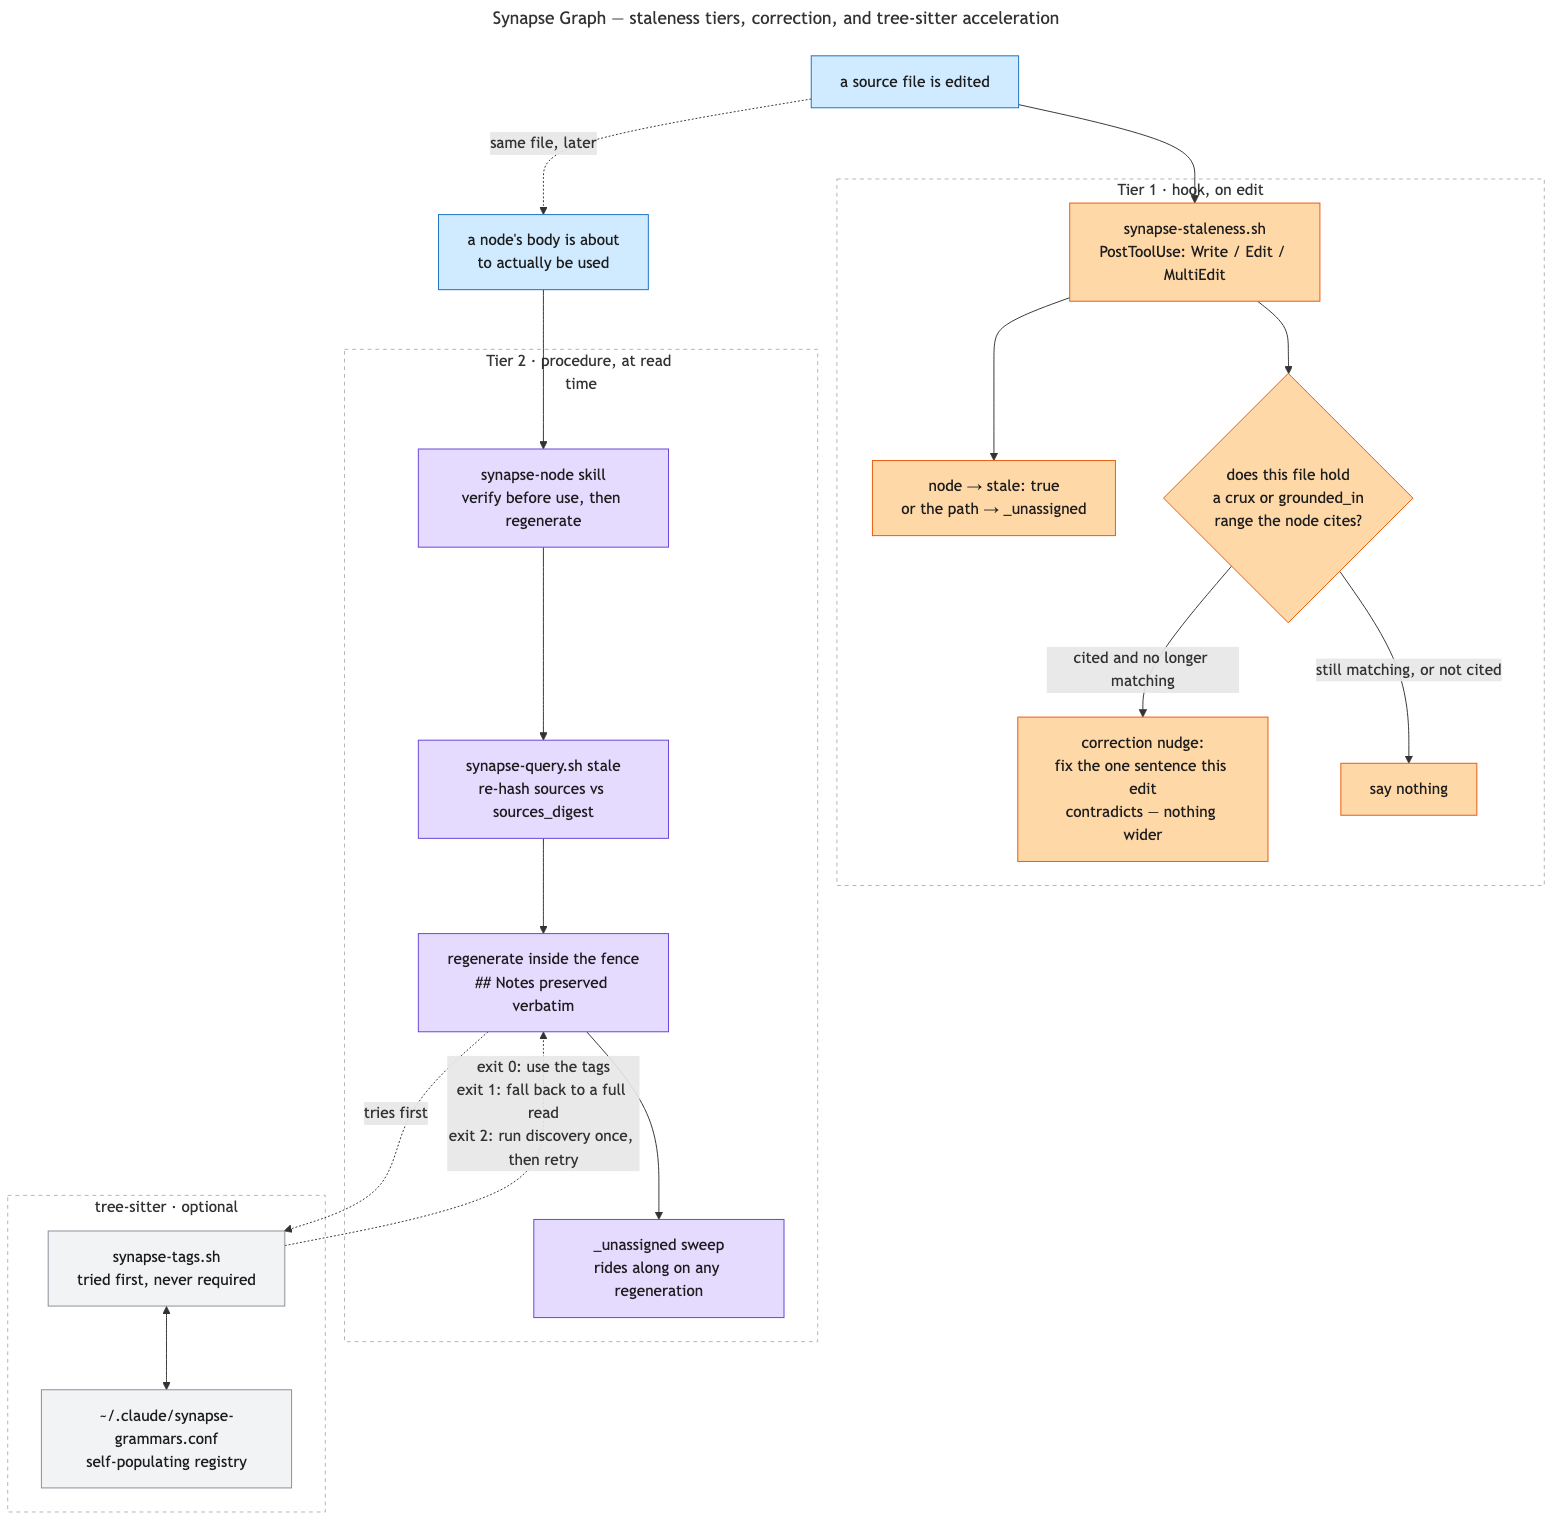
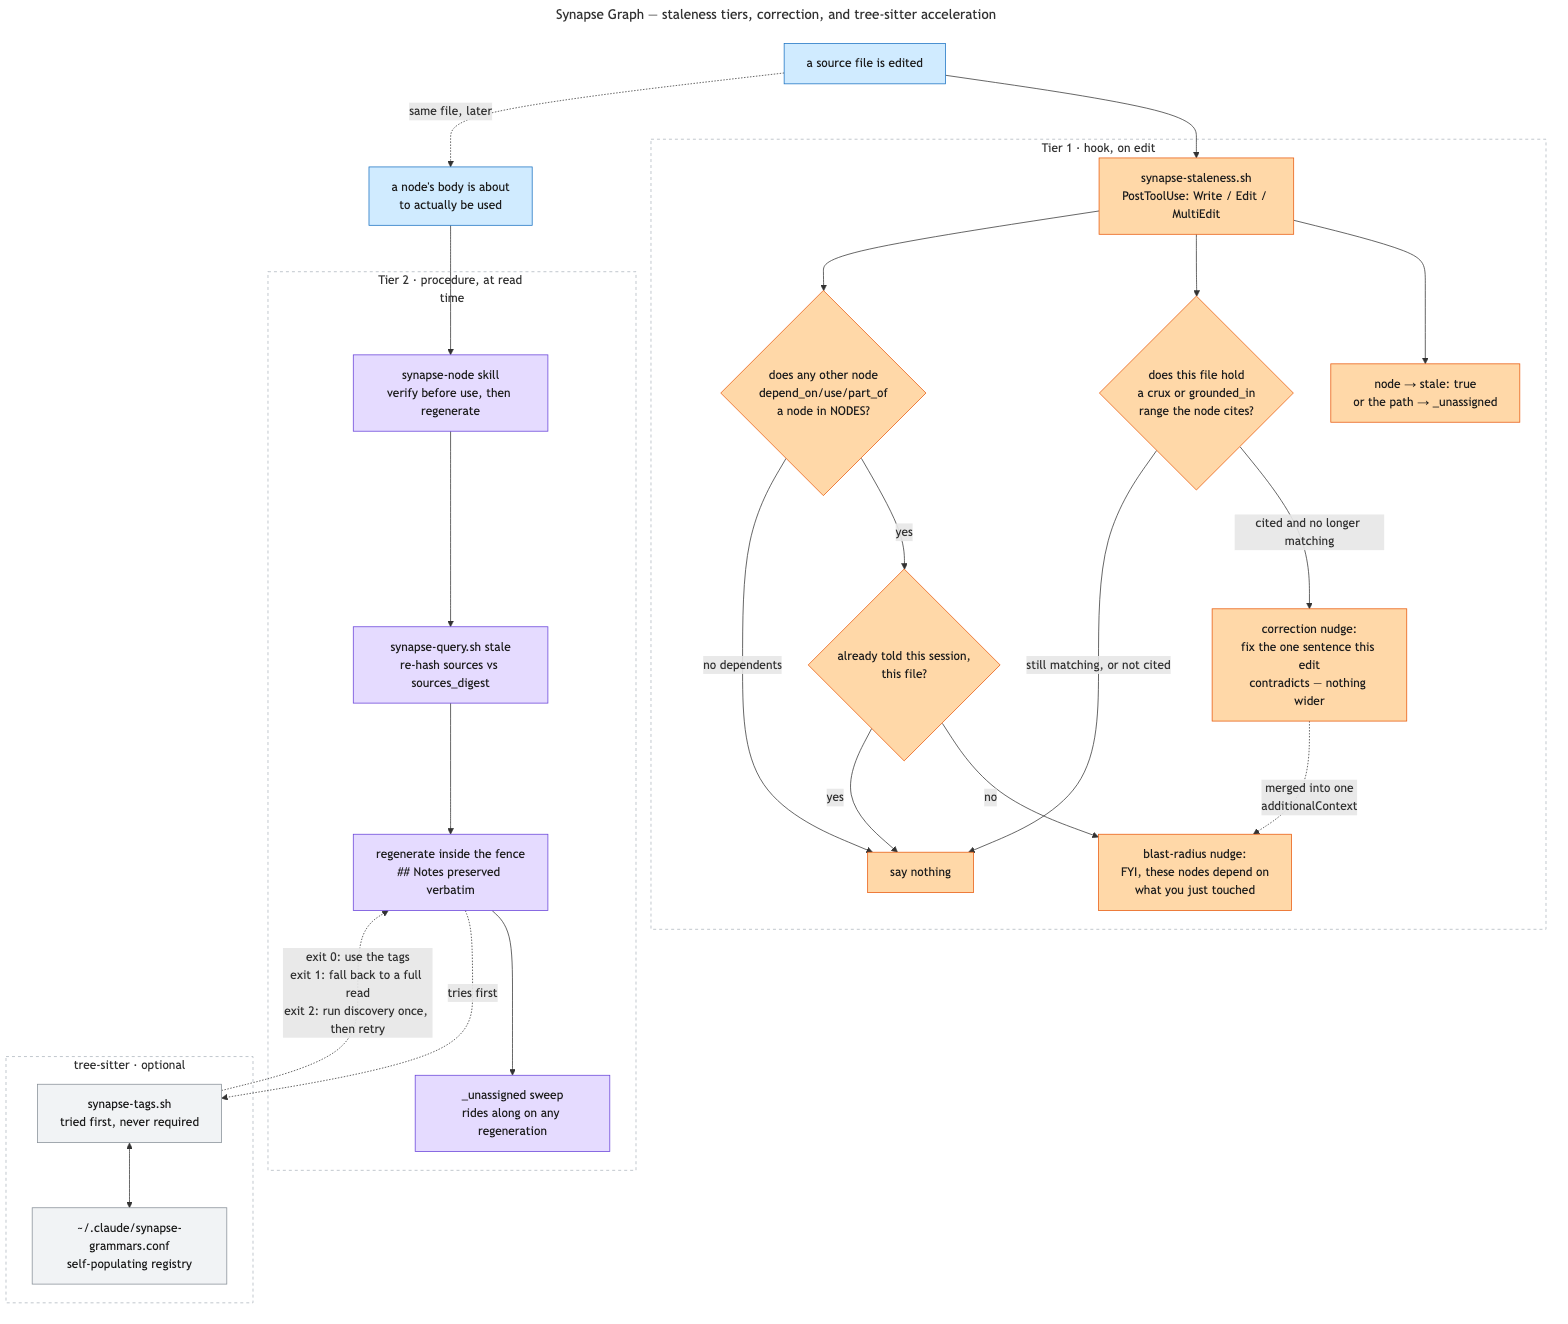
Add synapse-query skill and widen the staleness hook into a blast-radius nudge
Two independent, low-cost closures of gaps found comparing Synapse against
Graft's agent-usage-enforcement design (see the Vault design note "Closing
Synapse's usage-enforcement gaps"):

- claude/skills/synapse-query/SKILL.md: day-to-day usage skill for
  synapse-query.sh and friends. Nothing previously taught when to reach for
  which subcommand -- synapse-node covers Tier-2 staleness/regeneration and
  synapse-task covers status transitions, but neither is "how to query the
  graph for an ordinary task." A composition table maps every capability a
  dedicated code-graph tool would offer onto something that already exists
  (Obsidian search, native grep scoped to a known file, the typed-relation
  traversal synapse-query.sh links already does) rather than building a new
  binary. Description is deliberately blunt ("before grepping"), matching
  the explicit goal of getting the graph actually used, not just considered.

- synapse-staleness.sh: the existing PostToolUse hook already computed which
  nodes cover an edited file (NODES) but only ever reported anything in the
  narrow "cited evidence broke" case. It now also checks whether any other
  node depends on those nodes -- the same node_edges scan links --inbound
  uses, one awk pass, no per-file forks -- and surfaces that as a blast-radius
  nudge, gated to once per (session, file) so it can't repeat itself into
  noise the way an unconditional nudge would. Merges into the same
[…]

diff --git a/claude/skills/synapse-query/SKILL.md b/claude/skills/synapse-query/SKILL.md
@@ -1,0 +1,96 @@
+---
+name: synapse-query
+description: This repo has a Synapse code graph. For ANY task here — understanding how something works, finding where code lives, tracing what depends on a file, or scoping an edit — consult synapse/{project}/Index.md and synapse-query.sh before grepping or reading source files. Grep only after Synapse has named the exact file(s) to read.
+---
+
+# Synapse Query: Day-to-Day Use of the Code Graph
+
+`synapse-node` covers Tier 2 staleness checking and regeneration. `synapse-task` covers task-note
+status transitions. This skill is neither of those — it's how to actually *use* the graph for an
+ordinary task: understanding a subsystem, finding where something lives, or scoping an edit before
+touching code. If a query below turns up a stale node, hand off to `synapse-node`'s procedure rather
+than reasoning about staleness here.
+
+## Why this exists
+
+The Synapse graph has two parts:
+
+1. **The graph itself** — `synapse/{project}/*.md`, one node per subsystem/concept, LLM-authored:
+   a plain-English summary, a crux (the few lines that actually carry the logic), typed relations to
+   other nodes (`depends_on`/`part_of`/`uses`/etc, as the node's own data), and an exhaustive
+   `sources` list. A broad metadata layer for narrowing down *where* to look — not a replacement for
+   reading code, a map to it.
+2. **`synapse-query.sh` and friends** — scripts that query and extract from part 1 cheaply. Nothing
+   here is a daemon or a server; every command is a plain script reading files on disk.
+
+**The point of this graph is to make grep the last resort, not a peer option.** Consult Synapse
+first to learn *where* something lives; a node's `sources` (or `crux_path`, if it has one) then
+names the exact file(s) to fetch; grep only re-enters at that point, scoped to a file Synapse
+already named, to locate a specific detail inside it — never as an unscoped repo-wide search run
+instead of asking Synapse first. If you catch yourself about to grep the whole repo before checking
+`synapse/{project}/Index.md`, stop and check the index instead.
+
+**Why the cost difference is real, not just tidiness.** `synapse-query.sh body <node>` never goes
+through Obsidian's API — it's a direct disk read that extracts only the prose between the generated
+fences, skipping the node's `sources` list entirely. On a hub node, going through the API instead
+would move that node's entire frontmatter — megabytes — to print a few hundred words. On a large
+repo (dozens to hundreds of thousands of tracked files), that difference is the entire reason a
+query stays cheap instead of dominating the turn.
+
+## The tools
+
+Not "what's missing versus other code-graph tools" — every capability you'd expect already maps to
+something that exists, composed from Synapse plus what Claude Code already has, no new binary
+required:
+
+| Need | Reach for | Why |
+|---|---|---|
+| "Where does X live?" (ranked, natural-language) | `mcp__obsidian__search_simple`/`search_query` over the vault, plus a first read of `synapse/{project}/Index.md` | Full-text, relevance-ranked. Not semantic ranking, but genuinely comparable for locating a concept. |
+| Every occurrence of a pattern | native `grep`/`rg`, **scoped to a file Synapse already named** | Not a repo-wide first move — the deterred, last-resort case. See "Why this exists" above. |
+| A file's API surface | `Read` the file directly | Claude already has direct, cheap filesystem access — no separate view needed. |
+| Who depends on a subsystem, or what it depends on | `synapse-query.sh links "{Node}" --inbound` / `--closure` | Real transitive-closure traversal over the typed relations, node-granularity (not per-symbol — there's no exact call graph yet). |
+| One frontmatter scalar (`stale`, `built_at`, `commit`, ...) | `synapse-query.sh field "{Node}" <key>` | Cheap, targeted extraction — never reads the rest of the node. |
+| A node's prose, without its (possibly huge) `sources` list | `synapse-query.sh body "{Node}"` | Disk read, never the API; skips frontmatter and `## Notes`. See the cost note above. |
+| Every file a node covers | `synapse-query.sh sources "{Node}" [--count\|--modules\|--filter <p>]` | Filtered/counted/grouped, never the raw megabyte-scale list. |
+| Is this node's understanding still accurate? | `synapse-query.sh stale` / `drift` / `grounding` | Hand off to the `synapse-node` skill's procedure — this skill doesn't re-explain that. |
+
+## Usage scenarios
+
+| When you're... | Reach for | Not |
+|---|---|---|
+| Orienting on an unfamiliar repo | `synapse/{project}/Index.md`, then the relevant node's `body` | grepping around to build a mental map by hand |
+| Understanding a flow ("how does X work") | `synapse-query.sh body "{Node}"` for the node that covers it | reading every file the flow touches, cold |
+| Finding where a change belongs | `search_simple`/`Index.md` to find the owning node, then that node's `sources`/`crux_path` for the exact file(s) | a repo-wide grep for a guessed symbol name |
+| Judging blast radius before an edit | `synapse-query.sh links "{Node}" --inbound` (or `--closure` for transitive) | assuming nothing else depends on it |
+| You already know the exact file and line range | just fetch it (`sed`/`Read`) | asking Synapse a question you can already answer |
+| Finding every occurrence of a literal pattern | native `grep`/`rg`, scoped to files Synapse already named | an unscoped repo-wide grep before consulting Synapse at all |
+| A node turns up `stale` | hand off to the `synapse-node` skill | trying to reason about staleness inline here |
+
+## When a node isn't enough
+
+Synapse has no exact per-symbol call graph — a node's answer is a concept-level summary, not a
+parse. This matters more here than it would for a tool that does have one: short, reused names
+(common in languages that don't require import qualification for same-package references) can't
+always be disambiguated from a node alone. When a node's `crux`/`grounded_in`/`sources` don't
+resolve the specific symbol-level question:
+
+1. Fetch the file(s) the node already named via `sources` or `crux_path` — not a fresh search.
+2. Grep or read within that known file for the specific detail. This is the expected, first-class
+   fallback, not a rare edge case — treat it as normal, not as Synapse having failed.
+3. If the file Synapse named doesn't exist on disk, the graph is ahead of your checkout (a branch
+   switch or an unpulled move) — don't read a missing file; the `synapse-node` skill's staleness
+   procedure is what to run, not a workaround here.
+
+## Guardrails
+
+- **Never grep the whole repo before checking `synapse/{project}/Index.md`**, unless this repo has
+  no Synapse namespace at all (`vault_list` on `synapse/{project}/` comes back empty — in that case
+  there's nothing to consult, say so and proceed normally).
+- **Never treat a node's summary as ground truth for a symbol-level claim** it wasn't built to make
+  precisely — see "When a node isn't enough" above.
+- **Never `vault_read` a node just to read its prose.** That pulls the full frontmatter, which can
+  run to megabytes on a hub node. Use `synapse-query.sh body` (see the cost note above).
+- **Never reason about a node's staleness inline in this skill.** Hand off to `synapse-node`'s
+  procedure — that's its job, not this skill's.
+- **Never treat `synapse-query.sh`'s exit 1 as "clean."** It means the check could not run (no
+  vault, no namespace for this repo, a `remote:` mismatch) — not that the graph verified fine.

diff --git a/docs/synapse-graph.md b/docs/synapse-graph.md
@@ -242,6 +242,24 @@ worth catching.
 Tier 1 therefore answers two questions rather than one: whether something under a node changed, and —
 for the narrow slice it can see — whether a specific claim may no longer hold.
 
+### Blast radius: a second, broader nudge from the same hook
+
+The nodes claiming the edited file (`NODES` above) answer *ownership* — who documents this file —
+not *impact* — who else might be affected by changing it. The hook answers the second question too,
+cheaply, from data it already has: which other nodes have a typed relation (`depends_on`/`uses`/
+`part_of`/etc) pointing *at* one of `NODES`, via the same scan `links --inbound` uses (see "Relations
+between nodes" below) — one `awk` pass over every node file in the namespace, no per-file forks.
+
+This nudge is deliberately looser than the correction nudge above — it fires whenever dependents
+exist at all, not only when something specific broke — so it needs its own narrowing to avoid the
+same "fires constantly, tuned out" failure the correction check was built to avoid. It fires **at
+most once per file per session**: the first edit to a file whose node has dependents gets told;
+later edits to the same file in the same session stay silent, tracked in a small marker file keyed
+by the hook's own `session_id`. A fresh session re-learns it once.
+
+When both checks have something to say about the same edit, they're merged into a single
+`additionalContext` — the hook never emits two separate outputs for one edit.
+
 ### Relations between nodes, derived rather than stored
 
 A node's `## Links` section records typed relations — `- depends_on [[Other Node]]`, `uses`, `part_of`.
@@ -298,7 +316,8 @@ it's not in the index at all, appends it to `_unassigned` instead. No hashing of
 here — the hook already knows with certainty which file just changed, so the flagging half is pure
 bookkeeping, not verification. It does hash one narrow thing: any `crux` or `grounded_in` range those
 nodes cite **in this file**, so an edit that invalidates cited evidence returns a correction nudge. See
-"Opportunistic correction" above for why that slice and no wider.
+"Opportunistic correction" above for why that slice and no wider. It also checks, once per file per
+session, whether any other node depends on the ones claiming this file — see "Blast radius" below.
 
 The hook also refuses to write when the namespace's `remote:` doesn't match the repo's, using the same origin → first-listed-remote → repo-root resolution the SessionStart hook and `synapse-query.sh` use. A namespace with no readable `remote:` counts as a mismatch, not a match on the empty string: absent provenance is not permission to write. All three components must resolve the remote identically, or one refuses where another proceeds.
 
